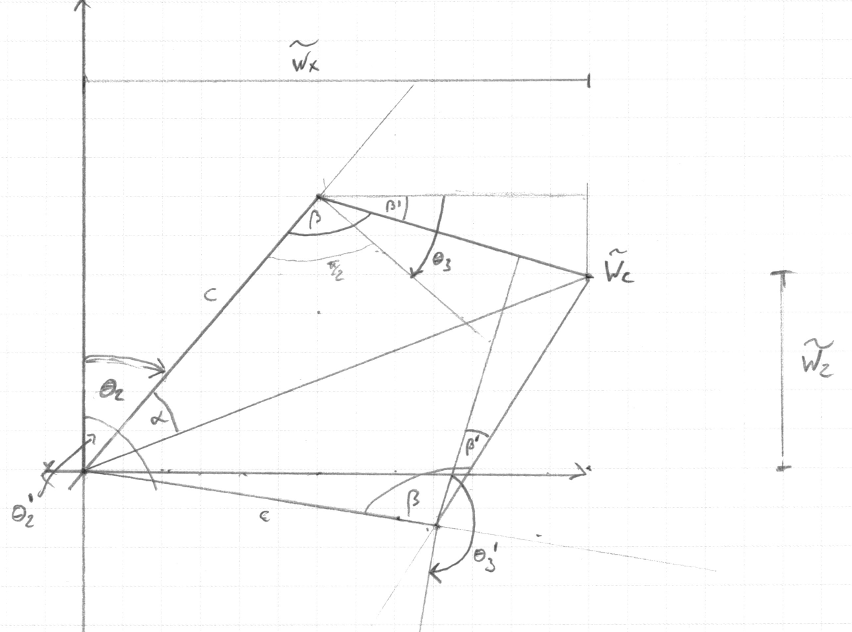
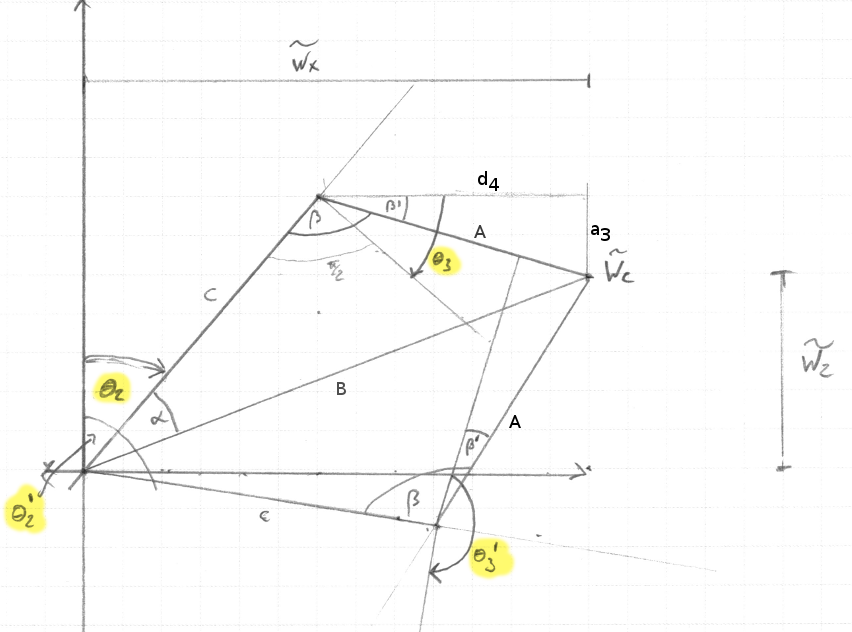
p2 writeup Inverse Kinematics positioning done

diff --git a/writeup_template.md b/writeup_template.md
@@ -1,9 +1,5 @@
 ## Project: Kinematics Pick & Place
-### Writeup Template: You can use this file as a template for your writeup if you want to submit it as a markdown file, but feel free to use some other method and submit a pdf if you prefer.
-
 ---
-
-
 **Steps to complete the project:**  
 
 
@@ -20,6 +16,9 @@
 [image1]: ./misc_images/misc1.png
 [image2]: ./misc_images/misc3.png
 [image3]: ./misc_images/misc2.png
+[image1]: ./misc_images/misc1.png
+[robotschematic]: ./misc_images/robot-schematic.png
+
 
 ## [Rubric](https://review.udacity.com/#!/rubrics/972/view) Points
 ### Here I will consider the rubric points individually and describe how I addressed each point in my implementation.  
@@ -29,33 +28,125 @@
 
 #### 1. Provide a Writeup / README that includes all the rubric points and how you addressed each one.  You can submit your writeup as markdown or pdf.  
 
-You're reading it!
+
+
 
 ### Kinematic Analysis
 #### 1. Run the forward_kinematics demo and evaluate the kr210.urdf.xacro file to perform kinematic analysis of Kuka KR210 robot and derive its DH parameters.
 
-Here is an example of how to include an image in your writeup.
+To establish an analysis of the Kuka KR210's forward kinematic  I looked at the geometric urdf description in the kr210.urdf.xacro file. The Denavit-Hartenberg parameters for the 6-DOF serial manipulator are chosen according to the convention proposed by Craig, JJ. (2005). Introduction to Robotics. The following schematic depicts the distances and rotation angles between the resultung frame origins.
 
-![alt text][image1]
+![kinematic analysis kuka kr210][robotschematic]
+
+#### Rotation angles theta-1 to -6
+
+To get a better understanding of the rotation angles theta1-6 I depicted them separately in a non-zero configuration. The following images show the respective joint angles and their effects: 
+
+Theta 1 (~80°) rotation from X0 to X1 about Z1
+![theta1](./misc_images/theta1.png)
+
+Theta 2 (~10°) rotation from X1 to X2 about Z2 \
+Theta 3 (~10°) rotation from X2 to X3 about Z3
+![theta2 + 3](./misc_images/theta2_3.png)
+
+Theta 4 (~30°) rotation from X3 to X4 about Z4
+![theta4](./misc_images/theta4.png)
+
+Theta 5 (~45°) rotation from X4 to X5 about Z5
+![theta5](./misc_images/theta5.png)
+
+Theta 6 (~30°) rotation from X5 to X6 about Z6
+![theta6](./misc_images/theta6.png)
+
+
+#### Extract DH parameters describing the kinematic chain
+
+By determining which relative offset definition between the joints in the urdf file corresponds to the respective DH-parameter we end up with the following tables.
+
+URDF relative offsets
+Joint | x | y | z 
+--- | --- | --- | --- 
+J1 | 0 | 0 | 0.33  
+J2 | 0.35 | 0 | 0.42
+J3 | 0 | 0 | 1.25
+J4 | 0.96 | 0 | -0.054
+J5 | 0.54 | 0 | 0
+J6 | 0.193 | 0 | 0
+Jgripper | 0.11 | 0 | 0
+
+Corresponding DH-parameters (composing the distances)
+Links | alpha(i-1) | a(i-1) | d(i) | theta(i)
+--- | --- | --- | --- | ---
+0->1 | 0 | 0 | J1.z + J2.z  | q1
+1->2 | - pi/2 | J2.x | 0 | q2 - pi/2
+2->3 | 0 | J3.z | 0 | q3
+3->4 |  - pi/2 | J4.z | J4.x + J5.x | q4
+4->5 | pi/2 | 0 | 0 | q5
+5->6 | - pi/2 | 0 | 0 | q6
+6->EE | 0 | 0 | J6.x+Jgripper.x | 0
+
+
 
 #### 2. Using the DH parameter table you derived earlier, create individual transformation matrices about each joint. In addition, also generate a generalized homogeneous transform between base_link and gripper_link using only end-effector(gripper) pose.
 
-Links | alpha(i-1) | a(i-1) | d(i-1) | theta(i)
+Links | alpha(i-1) | a(i-1) | d(i) | theta(i)
 --- | --- | --- | --- | ---
-0->1 | 0 | 0 | L1 | qi
-1->2 | - pi/2 | L2 | 0 | -pi/2 + q2
-2->3 | 0 | 0 | 0 | 0
-3->4 |  0 | 0 | 0 | 0
-4->5 | 0 | 0 | 0 | 0
-5->6 | 0 | 0 | 0 | 0
-6->EE | 0 | 0 | 0 | 0
+0->1 | 0 | 0 | 0.75 | q1
+1->2 | - pi/2 | 0.35 | 0 | q1 - pi/2
+2->3 | 0 | 1.25 | 0 | q3
+3->4 |  - pi/2 | -0.054 | 1.5 | q4
+4->5 | pi/2 | 0 | 0 | q5
+5->6 | - pi/2 | 0 | 0 | q6
+6->EE | 0 | 0 | 0.303 | 0
 
+Using the Denavit-Hartenberg parameters we can describe the transformation matrix between two adjacent frames as:
+![dh-transformation equation](./misc_images/dh-trans-equation.png)
+This yields the following transformation matrix:
+![dh-transformation matrix](./misc_images/dh-trans-matrix.png)
+
+By chaining together the adjacent frame transformation matrices we end up with a transformation between the base-link and the end-effector
+![dh-chain](./misc_images/dh-chain.png)
+
+To account for the rotational mismatch between the urdf description and the forward kinematics described by the DH-parameters we have to rotate around Z by 180° and Y by -90°.
+![tf-correction](./misc_images/tf-correction.png)
+
+#### Forward Kinematics implementation
+
+The code calculating the forward kinematics of the Kuka KR210 is implemented in the file kuka_arm/scripts/FK_experiment.py and was used to validate the correctness of the determined DH-parameters by comparing the resulting position of the end-effector with the simulation using the forward_kinematics environment.
 
 #### 3. Decouple Inverse Kinematics problem into Inverse Position Kinematics and inverse Orientation Kinematics; doing so derive the equations to calculate all individual joint angles.
 
-And here's where you can draw out and show your math for the derivation of your theta angles. 
+The fact that the last three revolute joints of the Kuka KR210 have the same origin and form a spherical "wrist" joint allows us to decouple the calculation into solving for the position kinematics of the wrist center and the orientation kinematics of the end effector separately.
 
-![alt text][image2]
+First we have to determine the position of the wrist center. This is done by taking the desired position of the end-effector and subtracting a vector with the required orientation scaled to the euclidean distance between the wrist center and the gripper.
+For the orientation of the aforementioned vector I first decompose the quaternion representation of the desired pose into the corresponding roll, pitch and yaw values. These values are then used to generate an extrinsic rotation matrix which gets multiplied by the previously described rotational correction matrix to account for the orientation difference between the DH parameters and the urdf description. The z-component of the resulting matrix is then a unit-vector pointing into the desired direction. Multiplying it by the distance from the wrist to the end-effector and subtracting it from the target gripper position yields the position of the wrist center for this task.
+
+Having determined the wrist center we can solve the position kinematics using the first three rotation angles of the Kuka KR210.
+
+For theta 1 there are two possible solutions which, we either turn the arm towards or away from the position of the wrist center.
+![](./misc_images/ik_theta1.png)
+![](./misc_images/ik_theta1_calc.png)
+
+Once theta1 is determined we can start solving for theta2 and theta3. We calculate the (forward and elevation) distance from the "shoulder" of the robot to the desired wrist center. Then we can fit two triangles to solve the task as depicted in the following schematic. C and A are the distances defined by the geometry of the second and third segment of the Kuka arm. B is the euclidean distance between the robots shoulder (Joint 2) and the wrist center. 
+
+If A + C < B the wrist center is out of the range for the robot.
+Otherwise we can fit two triangles to solve for the positioning of the wrist center.
+![](./misc_images/j1_wc_triangulation.png)
+
+
+From the law of cosines we can reformulate:
+![](./misc_images/cosine_theorem.png)
+To determine alpha and beta:
+![](./misc_images/alpha_beta_triangle.png)
+Using the DH-parameters table to determine beta-prime which is caused by the offset of Joint4:
+![](./misc_images/beta_prime.png)
+We get the following two possible solutions for the angles theta2 and theta3.
+![](./misc_images/theta2_3_equations.png)
+
+
+![](./misc_images/R3_6_structure.png)
+![](./misc_images/R3_6_structure_min.png)
+
 
 ### Project Implementation
 
@@ -66,6 +157,6 @@ Here I'll talk about the code, what techniques I used, what worked and why, wher
 
 
 And just for fun, another example image:
-![alt text][image3]
+<!-- ![alt text][image3] -->
 
 
